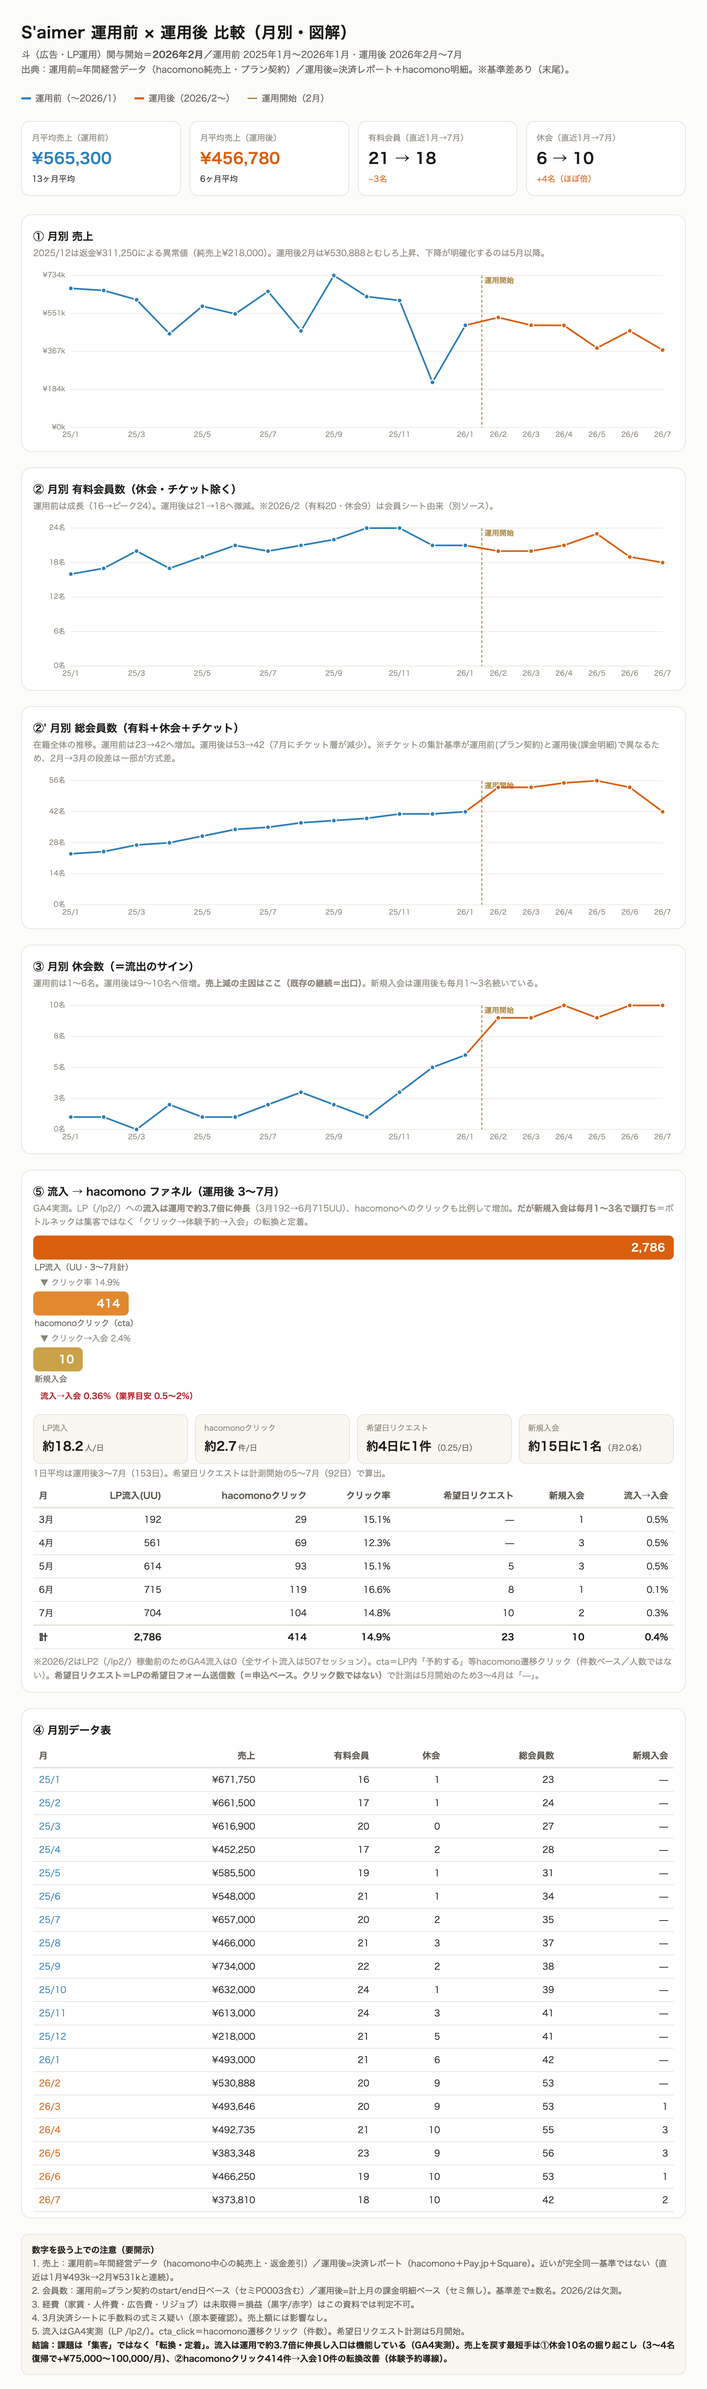
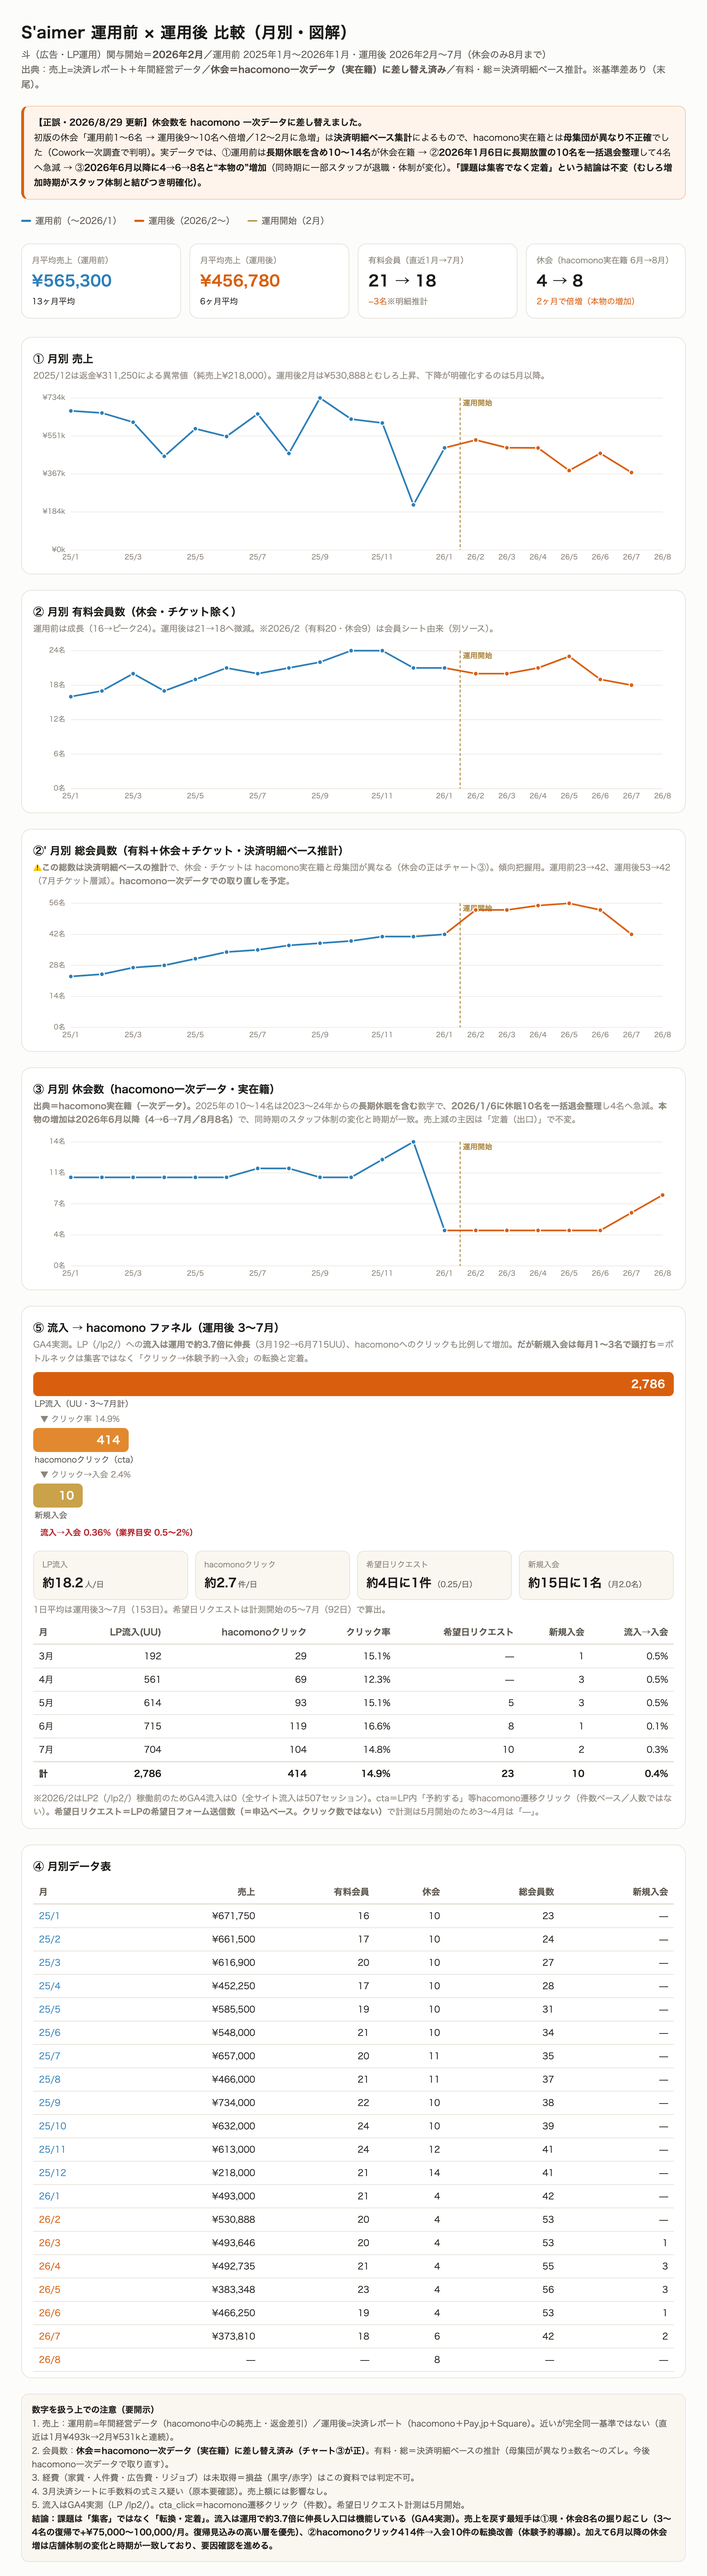
図解 公開版更新: 休会をhacomono一次データに訂正+1日平均+ファネル（個人情報・スタッフ名なし）

diff --git a/index.html b/index.html
@@ -44,6 +44,7 @@
   .beforecell{color:var(--before)} .aftercell{color:var(--after)}
   .note{font-size:12px;color:var(--ink2);background:#faf7f1;border:1px solid var(--line);border-radius:10px;padding:12px 14px;margin-top:8px}
   .note b{color:var(--ink)}
+  .correction{font-size:12.5px;color:var(--ink);background:#fff4ec;border:1px solid #f0c9a8;border-left:4px solid var(--after);border-radius:10px;padding:12px 14px;margin:0 0 20px;line-height:1.7}
   .tbl-scroll{overflow-x:auto}
   .funnel{margin:10px 0 16px}
   .fstage{margin:2px 0}
@@ -65,8 +66,13 @@
 <body>
 <div class="wrap">
   <h1>S'aimer 運用前 × 運用後 比較（月別・図解）</h1>
-  <p class="sub">斗（広告・LP運用）関与開始＝<b>2026年2月</b>／運用前 2025年1月〜2026年1月・運用後 2026年2月〜7月<br>
-  出典：運用前=年間経営データ（hacomono純売上・プラン契約）／運用後=決済レポート＋hacomono明細。※基準差あり（末尾）。</p>
+  <p class="sub">斗（広告・LP運用）関与開始＝<b>2026年2月</b>／運用前 2025年1月〜2026年1月・運用後 2026年2月〜7月（休会のみ8月まで）<br>
+  出典：売上=決済レポート＋年間経営データ／<b>休会＝hacomono一次データ（実在籍）に差し替え済み</b>／有料・総＝決済明細ベース推計。※基準差あり（末尾）。</p>
+
+  <div class="correction">
+    <b>【正誤・2026/8/29 更新】休会数を hacomono 一次データに差し替えました。</b><br>
+    初版の休会「運用前1〜6名 → 運用後9〜10名へ倍増／12〜2月に急増」は<b>決済明細ベース集計</b>によるもので、hacomono実在籍とは<b>母集団が異なり不正確</b>でした（Cowork一次調査で判明）。実データでは、①運用前は<b>長期休眠を含め10〜14名</b>が休会在籍 → ②<b>2026年1月6日に長期放置の10名を一括退会整理</b>して4名へ急減 → ③<b>2026年6月以降に4→6→8名と“本物の”増加</b>（同時期に一部スタッフが退職・体制が変化）。<b>「課題は集客でなく定着」という結論は不変（むしろ増加時期がスタッフ体制と結びつき明確化）。</b>
+  </div>
 
   <div class="legend">
     <span class="lg"><span class="sw" style="background:var(--before)"></span>運用前（〜2026/1）</span>
@@ -77,8 +83,8 @@
   <div class="kpis">
     <div class="kpi"><div class="l">月平均売上（運用前）</div><div class="v up">¥565,300</div><div class="d">13ヶ月平均</div></div>
     <div class="kpi"><div class="l">月平均売上（運用後）</div><div class="v down">¥456,780</div><div class="d">6ヶ月平均</div></div>
-    <div class="kpi"><div class="l">有料会員（直近1月→7月）</div><div class="v">21 → 18</div><div class="d down">−3名</div></div>
-    <div class="kpi"><div class="l">休会（直近1月→7月）</div><div class="v">6 → 10</div><div class="d down">+4名（ほぼ倍）</div></div>
+    <div class="kpi"><div class="l">有料会員（直近1月→7月）</div><div class="v">21 → 18</div><div class="d down">−3名<span style="color:var(--muted)">※明細推計</span></div></div>
+    <div class="kpi"><div class="l">休会（hacomono実在籍 6月→8月）</div><div class="v">4 → 8</div><div class="d down">2ヶ月で倍増（本物の増加）</div></div>
   </div>
 
   <div class="card">
@@ -94,14 +100,14 @@
   </div>
 
   <div class="card">
-    <h2>②' 月別 総会員数（有料＋休会＋チケット）</h2>
-    <p class="cap">在籍全体の推移。運用前は23→42へ増加。運用後は53→42（7月にチケット層が減少）。※チケットの集計基準が運用前(プラン契約)と運用後(課金明細)で異なるため、2月→3月の段差は一部が方式差。</p>
+    <h2>②' 月別 総会員数（有料＋休会＋チケット・決済明細ベース推計）</h2>
+    <p class="cap">⚠<b>この総数は決済明細ベースの推計</b>で、休会・チケットは hacomono実在籍と母集団が異なる（休会の正はチャート③）。傾向把握用。運用前23→42、運用後53→42（7月チケット層減）。<b>hacomono一次データでの取り直しを予定</b>。</p>
     <svg id="c_total" viewBox="0 0 920 220" role="img" aria-label="月別総会員数の推移"></svg>
   </div>
 
   <div class="card">
-    <h2>③ 月別 休会数（＝流出のサイン）</h2>
-    <p class="cap">運用前は1〜6名。運用後は9〜10名へ倍増。<b>売上減の主因はここ（既存の継続＝出口）</b>。新規入会は運用後も毎月1〜3名続いている。</p>
+    <h2>③ 月別 休会数（hacomono一次データ・実在籍）</h2>
+    <p class="cap"><b>出典＝hacomono実在籍（一次データ）。</b>2025年の10〜14名は2023〜24年からの<b>長期休眠を含む</b>数字で、<b>2026/1/6に休眠10名を一括退会整理</b>し4名へ急減。<b>本物の増加は2026年6月以降（4→6→7月／8月8名）</b>で、同時期のスタッフ体制の変化と時期が一致。売上減の主因は「定着（出口）」で不変。</p>
     <svg id="c_kyukai" viewBox="0 0 920 220" role="img" aria-label="月別休会数の推移"></svg>
   </div>
 
@@ -148,35 +154,37 @@
   <div class="note">
     <b>数字を扱う上での注意（要開示）</b><br>
     1. 売上：運用前=年間経営データ（hacomono中心の純売上・返金差引）／運用後=決済レポート（hacomono＋Pay.jp＋Square）。近いが完全同一基準ではない（直近は1月¥493k→2月¥531kと連続）。<br>
-    2. 会員数：運用前=プラン契約のstart/end日ベース（セミP0003含む）／運用後=計上月の課金明細ベース（セミ無し）。基準差で±数名。2026/2は欠測。<br>
+    2. 会員数：<b>休会＝hacomono一次データ（実在籍）に差し替え済み（チャート③が正）</b>。有料・総＝決済明細ベースの推計（母集団が異なり±数名〜のズレ。今後hacomono一次データで取り直す）。<br>
     3. 経費（家賃・人件費・広告費・リジョブ）は未取得＝損益（黒字/赤字）はこの資料では判定不可。<br>
     4. 3月決済シートに手数料の式ミス疑い（原本要確認）。売上額には影響なし。<br>
     5. 流入はGA4実測（LP /lp2/）。cta_click＝hacomono遷移クリック（件数）。希望日リクエスト計測は5月開始。<br>
-    <b>結論：課題は「集客」ではなく「転換・定着」。流入は運用で約3.7倍に伸長し入口は機能している（GA4実測）。売上を戻す最短手は①休会10名の掘り起こし（3〜4名復帰で+¥75,000〜100,000/月）、②hacomonoクリック414件→入会10件の転換改善（体験予約導線）。</b>
+    <b>結論：課題は「集客」ではなく「転換・定着」。流入は運用で約3.7倍に伸長し入口は機能している（GA4実測）。売上を戻す最短手は①現・休会8名の掘り起こし（3〜4名の復帰で+¥75,000〜100,000/月。復帰見込みの高い層を優先）、②hacomonoクリック414件→入会10件の転換改善（体験予約導線）。加えて6月以降の休会増は店舗体制の変化と時期が一致しており、要因確認を進める。</b>
   </div>
 </div>
 
 <script>
+// k（休会）＝hacomono一次データ（実在籍）。売上s・有料p・総tは決済明細ベースの推計（母集団が異なる／末尾注記）。
 const DATA = [
-  {m:"25/1",  s:671750, p:16, k:1,  t:23, n:""},
-  {m:"25/2",  s:661500, p:17, k:1,  t:24, n:""},
-  {m:"25/3",  s:616900, p:20, k:0,  t:27, n:""},
-  {m:"25/4",  s:452250, p:17, k:2,  t:28, n:""},
-  {m:"25/5",  s:585500, p:19, k:1,  t:31, n:""},
-  {m:"25/6",  s:548000, p:21, k:1,  t:34, n:""},
-  {m:"25/7",  s:657000, p:20, k:2,  t:35, n:""},
-  {m:"25/8",  s:466000, p:21, k:3,  t:37, n:""},
-  {m:"25/9",  s:734000, p:22, k:2,  t:38, n:""},
-  {m:"25/10", s:632000, p:24, k:1,  t:39, n:""},
-  {m:"25/11", s:613000, p:24, k:3,  t:41, n:""},
-  {m:"25/12", s:218000, p:21, k:5,  t:41, n:""},
-  {m:"26/1",  s:493000, p:21, k:6,  t:42, n:""},
-  {m:"26/2",  s:530888, p:20, k:9,  t:53, n:"", after:true},
-  {m:"26/3",  s:493646, p:20, k:9,  t:53, n:"1", after:true},
-  {m:"26/4",  s:492735, p:21, k:10, t:55, n:"3", after:true},
-  {m:"26/5",  s:383348, p:23, k:9,  t:56, n:"3", after:true},
-  {m:"26/6",  s:466250, p:19, k:10, t:53, n:"1", after:true},
-  {m:"26/7",  s:373810, p:18, k:10, t:42, n:"2", after:true},
+  {m:"25/1",  s:671750, p:16, k:10, t:23, n:""},
+  {m:"25/2",  s:661500, p:17, k:10, t:24, n:""},
+  {m:"25/3",  s:616900, p:20, k:10, t:27, n:""},
+  {m:"25/4",  s:452250, p:17, k:10, t:28, n:""},
+  {m:"25/5",  s:585500, p:19, k:10, t:31, n:""},
+  {m:"25/6",  s:548000, p:21, k:10, t:34, n:""},
+  {m:"25/7",  s:657000, p:20, k:11, t:35, n:""},
+  {m:"25/8",  s:466000, p:21, k:11, t:37, n:""},
+  {m:"25/9",  s:734000, p:22, k:10, t:38, n:""},
+  {m:"25/10", s:632000, p:24, k:10, t:39, n:""},
+  {m:"25/11", s:613000, p:24, k:12, t:41, n:""},
+  {m:"25/12", s:218000, p:21, k:14, t:41, n:""},
+  {m:"26/1",  s:493000, p:21, k:4,  t:42, n:""},
+  {m:"26/2",  s:530888, p:20, k:4,  t:53, n:"", after:true},
+  {m:"26/3",  s:493646, p:20, k:4,  t:53, n:"1", after:true},
+  {m:"26/4",  s:492735, p:21, k:4,  t:55, n:"3", after:true},
+  {m:"26/5",  s:383348, p:23, k:4,  t:56, n:"3", after:true},
+  {m:"26/6",  s:466250, p:19, k:4,  t:53, n:"1", after:true},
+  {m:"26/7",  s:373810, p:18, k:6,  t:42, n:"2", after:true},
+  {m:"26/8",  s:null,   p:null, k:8, t:null, n:"", after:true},
 ];
 const AFTER_START = 13; // index of 26/2
 const BEFORE="#2C7FB8", AFTER="#D95F0E";
@@ -241,7 +249,8 @@ document.getElementById("ftbody").innerHTML = frows;
 // table
 document.getElementById("tbody").innerHTML = DATA.map(d=>{
   const cls=d.after?"aftercell":"beforecell";
-  return `<tr><td class="${cls}">${d.m}</td><td>${yen(d.s)}</td><td>${d.p??"—"}</td><td>${d.k??"—"}</td><td>${d.t??"—"}</td><td>${d.n||"—"}</td></tr>`;
+  const sc = d.s==null?"—":yen(d.s);
+  return `<tr><td class="${cls}">${d.m}</td><td>${sc}</td><td>${d.p??"—"}</td><td>${d.k??"—"}</td><td>${d.t??"—"}</td><td>${d.n||"—"}</td></tr>`;
 }).join("");
 </script>
 </body>

diff --git a/運用前後比較_図解_20260825.html b/運用前後比較_図解_20260825.html
@@ -44,6 +44,7 @@
   .beforecell{color:var(--before)} .aftercell{color:var(--after)}
   .note{font-size:12px;color:var(--ink2);background:#faf7f1;border:1px solid var(--line);border-radius:10px;padding:12px 14px;margin-top:8px}
   .note b{color:var(--ink)}
+  .correction{font-size:12.5px;color:var(--ink);background:#fff4ec;border:1px solid #f0c9a8;border-left:4px solid var(--after);border-radius:10px;padding:12px 14px;margin:0 0 20px;line-height:1.7}
   .tbl-scroll{overflow-x:auto}
   .funnel{margin:10px 0 16px}
   .fstage{margin:2px 0}
@@ -65,8 +66,13 @@
 <body>
 <div class="wrap">
   <h1>S'aimer 運用前 × 運用後 比較（月別・図解）</h1>
-  <p class="sub">斗（広告・LP運用）関与開始＝<b>2026年2月</b>／運用前 2025年1月〜2026年1月・運用後 2026年2月〜7月<br>
-  出典：運用前=年間経営データ（hacomono純売上・プラン契約）／運用後=決済レポート＋hacomono明細。※基準差あり（末尾）。</p>
+  <p class="sub">斗（広告・LP運用）関与開始＝<b>2026年2月</b>／運用前 2025年1月〜2026年1月・運用後 2026年2月〜7月（休会のみ8月まで）<br>
+  出典：売上=決済レポート＋年間経営データ／<b>休会＝hacomono一次データ（実在籍）に差し替え済み</b>／有料・総＝決済明細ベース推計。※基準差あり（末尾）。</p>
+
+  <div class="correction">
+    <b>【正誤・2026/8/29 更新】休会数を hacomono 一次データに差し替えました。</b><br>
+    初版の休会「運用前1〜6名 → 運用後9〜10名へ倍増／12〜2月に急増」は<b>決済明細ベース集計</b>によるもので、hacomono実在籍とは<b>母集団が異なり不正確</b>でした（Cowork一次調査で判明）。実データでは、①運用前は<b>長期休眠を含め10〜14名</b>が休会在籍 → ②<b>2026年1月6日に長期放置の10名を一括退会整理</b>して4名へ急減 → ③<b>2026年6月以降に4→6→8名と“本物の”増加</b>（同時期に一部スタッフが退職・体制が変化）。<b>「課題は集客でなく定着」という結論は不変（むしろ増加時期がスタッフ体制と結びつき明確化）。</b>
+  </div>
 
   <div class="legend">
     <span class="lg"><span class="sw" style="background:var(--before)"></span>運用前（〜2026/1）</span>
@@ -77,8 +83,8 @@
   <div class="kpis">
     <div class="kpi"><div class="l">月平均売上（運用前）</div><div class="v up">¥565,300</div><div class="d">13ヶ月平均</div></div>
     <div class="kpi"><div class="l">月平均売上（運用後）</div><div class="v down">¥456,780</div><div class="d">6ヶ月平均</div></div>
-    <div class="kpi"><div class="l">有料会員（直近1月→7月）</div><div class="v">21 → 18</div><div class="d down">−3名</div></div>
-    <div class="kpi"><div class="l">休会（直近1月→7月）</div><div class="v">6 → 10</div><div class="d down">+4名（ほぼ倍）</div></div>
+    <div class="kpi"><div class="l">有料会員（直近1月→7月）</div><div class="v">21 → 18</div><div class="d down">−3名<span style="color:var(--muted)">※明細推計</span></div></div>
+    <div class="kpi"><div class="l">休会（hacomono実在籍 6月→8月）</div><div class="v">4 → 8</div><div class="d down">2ヶ月で倍増（本物の増加）</div></div>
   </div>
 
   <div class="card">
@@ -94,14 +100,14 @@
   </div>
 
   <div class="card">
-    <h2>②' 月別 総会員数（有料＋休会＋チケット）</h2>
-    <p class="cap">在籍全体の推移。運用前は23→42へ増加。運用後は53→42（7月にチケット層が減少）。※チケットの集計基準が運用前(プラン契約)と運用後(課金明細)で異なるため、2月→3月の段差は一部が方式差。</p>
+    <h2>②' 月別 総会員数（有料＋休会＋チケット・決済明細ベース推計）</h2>
+    <p class="cap">⚠<b>この総数は決済明細ベースの推計</b>で、休会・チケットは hacomono実在籍と母集団が異なる（休会の正はチャート③）。傾向把握用。運用前23→42、運用後53→42（7月チケット層減）。<b>hacomono一次データでの取り直しを予定</b>。</p>
     <svg id="c_total" viewBox="0 0 920 220" role="img" aria-label="月別総会員数の推移"></svg>
   </div>
 
   <div class="card">
-    <h2>③ 月別 休会数（＝流出のサイン）</h2>
-    <p class="cap">運用前は1〜6名。運用後は9〜10名へ倍増。<b>売上減の主因はここ（既存の継続＝出口）</b>。新規入会は運用後も毎月1〜3名続いている。</p>
+    <h2>③ 月別 休会数（hacomono一次データ・実在籍）</h2>
+    <p class="cap"><b>出典＝hacomono実在籍（一次データ）。</b>2025年の10〜14名は2023〜24年からの<b>長期休眠を含む</b>数字で、<b>2026/1/6に休眠10名を一括退会整理</b>し4名へ急減。<b>本物の増加は2026年6月以降（4→6→7月／8月8名）</b>で、同時期のスタッフ体制の変化と時期が一致。売上減の主因は「定着（出口）」で不変。</p>
     <svg id="c_kyukai" viewBox="0 0 920 220" role="img" aria-label="月別休会数の推移"></svg>
   </div>
 
@@ -148,35 +154,37 @@
   <div class="note">
     <b>数字を扱う上での注意（要開示）</b><br>
     1. 売上：運用前=年間経営データ（hacomono中心の純売上・返金差引）／運用後=決済レポート（hacomono＋Pay.jp＋Square）。近いが完全同一基準ではない（直近は1月¥493k→2月¥531kと連続）。<br>
-    2. 会員数：運用前=プラン契約のstart/end日ベース（セミP0003含む）／運用後=計上月の課金明細ベース（セミ無し）。基準差で±数名。2026/2は欠測。<br>
+    2. 会員数：<b>休会＝hacomono一次データ（実在籍）に差し替え済み（チャート③が正）</b>。有料・総＝決済明細ベースの推計（母集団が異なり±数名〜のズレ。今後hacomono一次データで取り直す）。<br>
     3. 経費（家賃・人件費・広告費・リジョブ）は未取得＝損益（黒字/赤字）はこの資料では判定不可。<br>
     4. 3月決済シートに手数料の式ミス疑い（原本要確認）。売上額には影響なし。<br>
     5. 流入はGA4実測（LP /lp2/）。cta_click＝hacomono遷移クリック（件数）。希望日リクエスト計測は5月開始。<br>
-    <b>結論：課題は「集客」ではなく「転換・定着」。流入は運用で約3.7倍に伸長し入口は機能している（GA4実測）。売上を戻す最短手は①休会10名の掘り起こし（3〜4名復帰で+¥75,000〜100,000/月）、②hacomonoクリック414件→入会10件の転換改善（体験予約導線）。</b>
+    <b>結論：課題は「集客」ではなく「転換・定着」。流入は運用で約3.7倍に伸長し入口は機能している（GA4実測）。売上を戻す最短手は①現・休会8名の掘り起こし（3〜4名の復帰で+¥75,000〜100,000/月。復帰見込みの高い層を優先）、②hacomonoクリック414件→入会10件の転換改善（体験予約導線）。加えて6月以降の休会増は店舗体制の変化と時期が一致しており、要因確認を進める。</b>
   </div>
 </div>
 
 <script>
+// k（休会）＝hacomono一次データ（実在籍）。売上s・有料p・総tは決済明細ベースの推計（母集団が異なる／末尾注記）。
 const DATA = [
-  {m:"25/1",  s:671750, p:16, k:1,  t:23, n:""},
-  {m:"25/2",  s:661500, p:17, k:1,  t:24, n:""},
-  {m:"25/3",  s:616900, p:20, k:0,  t:27, n:""},
-  {m:"25/4",  s:452250, p:17, k:2,  t:28, n:""},
-  {m:"25/5",  s:585500, p:19, k:1,  t:31, n:""},
-  {m:"25/6",  s:548000, p:21, k:1,  t:34, n:""},
-  {m:"25/7",  s:657000, p:20, k:2,  t:35, n:""},
-  {m:"25/8",  s:466000, p:21, k:3,  t:37, n:""},
-  {m:"25/9",  s:734000, p:22, k:2,  t:38, n:""},
-  {m:"25/10", s:632000, p:24, k:1,  t:39, n:""},
-  {m:"25/11", s:613000, p:24, k:3,  t:41, n:""},
-  {m:"25/12", s:218000, p:21, k:5,  t:41, n:""},
-  {m:"26/1",  s:493000, p:21, k:6,  t:42, n:""},
-  {m:"26/2",  s:530888, p:20, k:9,  t:53, n:"", after:true},
-  {m:"26/3",  s:493646, p:20, k:9,  t:53, n:"1", after:true},
-  {m:"26/4",  s:492735, p:21, k:10, t:55, n:"3", after:true},
-  {m:"26/5",  s:383348, p:23, k:9,  t:56, n:"3", after:true},
-  {m:"26/6",  s:466250, p:19, k:10, t:53, n:"1", after:true},
-  {m:"26/7",  s:373810, p:18, k:10, t:42, n:"2", after:true},
+  {m:"25/1",  s:671750, p:16, k:10, t:23, n:""},
+  {m:"25/2",  s:661500, p:17, k:10, t:24, n:""},
+  {m:"25/3",  s:616900, p:20, k:10, t:27, n:""},
+  {m:"25/4",  s:452250, p:17, k:10, t:28, n:""},
+  {m:"25/5",  s:585500, p:19, k:10, t:31, n:""},
+  {m:"25/6",  s:548000, p:21, k:10, t:34, n:""},
+  {m:"25/7",  s:657000, p:20, k:11, t:35, n:""},
+  {m:"25/8",  s:466000, p:21, k:11, t:37, n:""},
+  {m:"25/9",  s:734000, p:22, k:10, t:38, n:""},
+  {m:"25/10", s:632000, p:24, k:10, t:39, n:""},
+  {m:"25/11", s:613000, p:24, k:12, t:41, n:""},
+  {m:"25/12", s:218000, p:21, k:14, t:41, n:""},
+  {m:"26/1",  s:493000, p:21, k:4,  t:42, n:""},
+  {m:"26/2",  s:530888, p:20, k:4,  t:53, n:"", after:true},
+  {m:"26/3",  s:493646, p:20, k:4,  t:53, n:"1", after:true},
+  {m:"26/4",  s:492735, p:21, k:4,  t:55, n:"3", after:true},
+  {m:"26/5",  s:383348, p:23, k:4,  t:56, n:"3", after:true},
+  {m:"26/6",  s:466250, p:19, k:4,  t:53, n:"1", after:true},
+  {m:"26/7",  s:373810, p:18, k:6,  t:42, n:"2", after:true},
+  {m:"26/8",  s:null,   p:null, k:8, t:null, n:"", after:true},
 ];
 const AFTER_START = 13; // index of 26/2
 const BEFORE="#2C7FB8", AFTER="#D95F0E";
@@ -241,7 +249,8 @@ document.getElementById("ftbody").innerHTML = frows;
 // table
 document.getElementById("tbody").innerHTML = DATA.map(d=>{
   const cls=d.after?"aftercell":"beforecell";
-  return `<tr><td class="${cls}">${d.m}</td><td>${yen(d.s)}</td><td>${d.p??"—"}</td><td>${d.k??"—"}</td><td>${d.t??"—"}</td><td>${d.n||"—"}</td></tr>`;
+  const sc = d.s==null?"—":yen(d.s);
+  return `<tr><td class="${cls}">${d.m}</td><td>${sc}</td><td>${d.p??"—"}</td><td>${d.k??"—"}</td><td>${d.t??"—"}</td><td>${d.n||"—"}</td></tr>`;
 }).join("");
 </script>
 </body>
